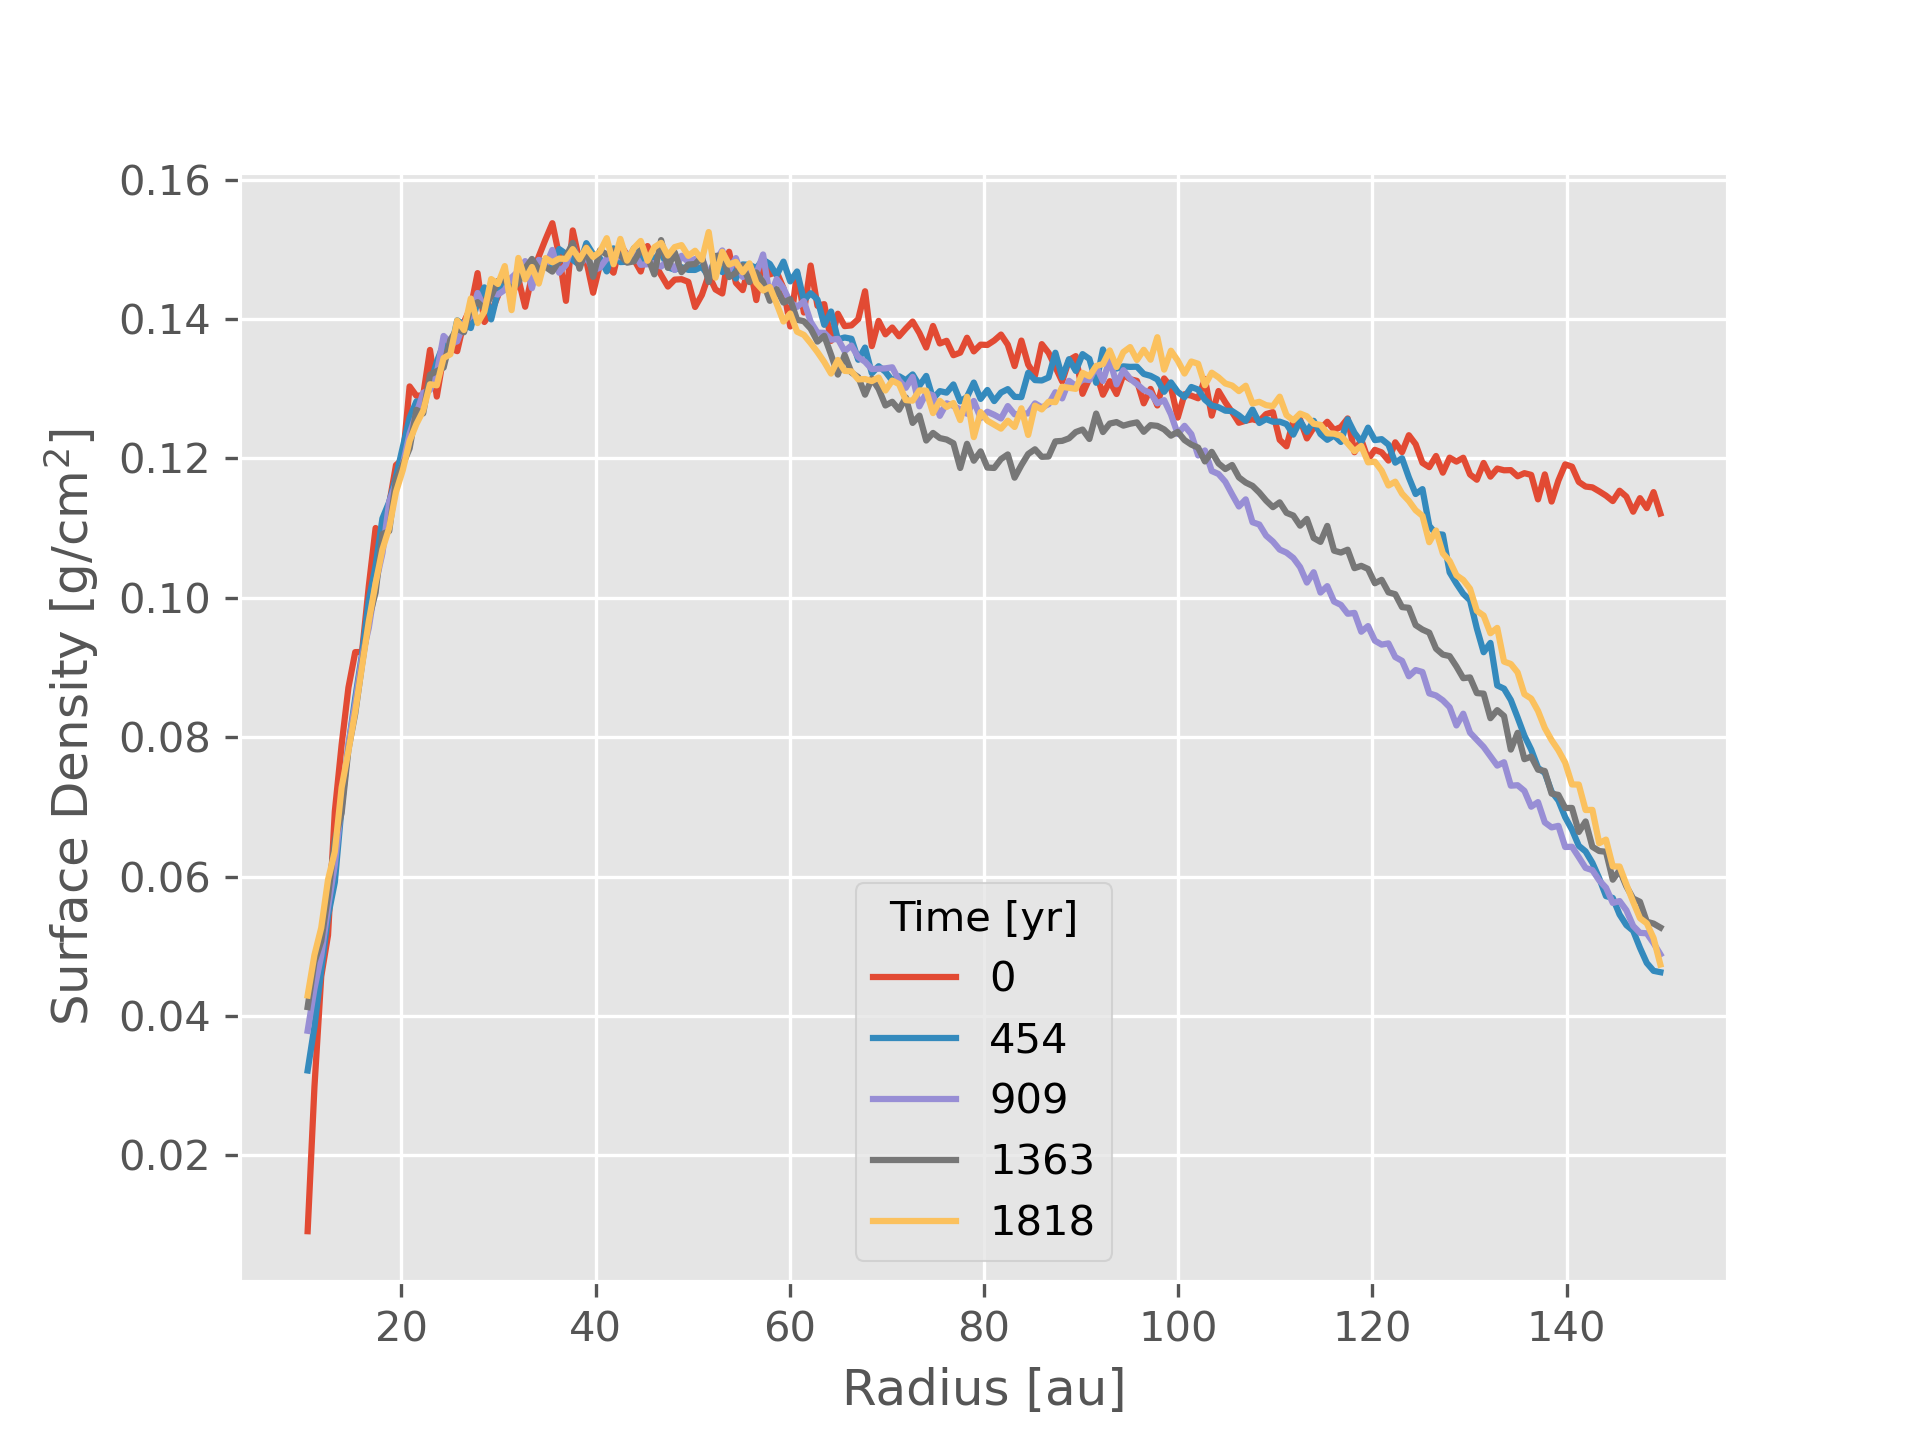
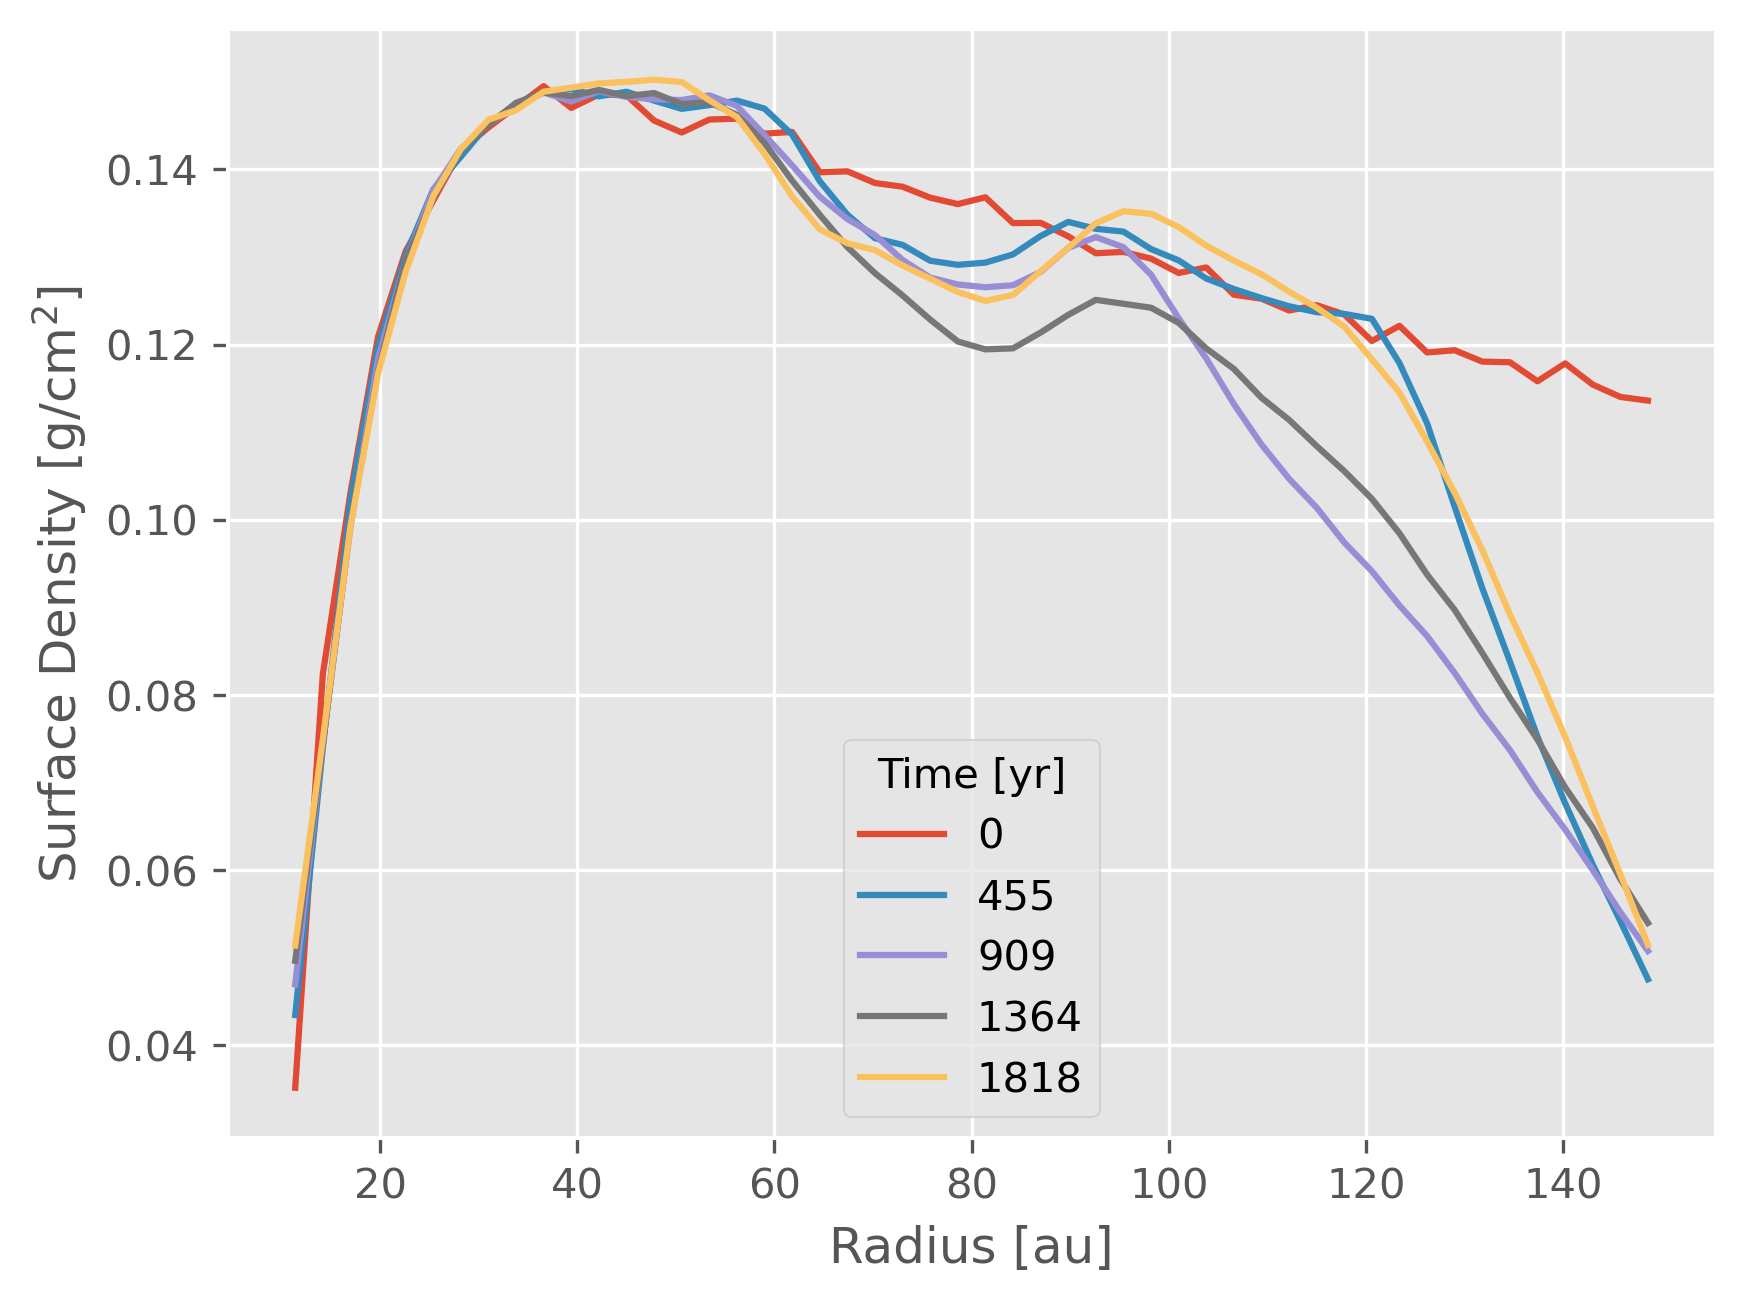
Update documentation examples

diff --git a/docs/source/examples/density-profiles.rst b/docs/source/examples/density-profiles.rst
@@ -17,28 +17,28 @@ Plot a density profile for multiple snapshots.
 
     # Generate density profiles for every 7th snap
     >>> stride = 7
+    >>> times = sim.properties['time'].to('year')[::stride]
     >>> profiles = list()
-    >>> times = sim.properties['time'].to('year').magnitude[::stride]
     >>> for snap in sim.snaps[::stride]:
-    ...     snap.physical_units()
     ...     profile = plonk.load_profile(
     ...         snap,
-    ...         radius_min=10 * plonk.units('au'),
-    ...         radius_max=150 * plonk.units('au'),
-    ...         n_bins=200
+    ...         radius_min='10 au',
+    ...         radius_max='150 au',
+    ...         n_bins=50,
     ...     )
-    ...     _ = profile['surface_density']
     ...     profiles.append(profile)
 
     # Plot profiles
     >>> fig, ax = plt.subplots()
     >>> for time, profile in zip(times, profiles):
-    ...     ax.plot(
-    ...         profile['radius'].to('au').m,
-    ...         profile['surface_density'].to('g/cm^2').m,
-    ...         label=f'{int(time)}'
-    ...     )
-    >>> ax.set_xlabel('Radius [au]')
+    ...     label = f'{time.m:.0f}'
+    ...     profile.plot(
+    ...         'radius',
+    ...         'surface_density',
+    ...         x_unit='au',
+    ...         label=label,
+    ...         ax=ax
+    ... )
     >>> ax.set_ylabel('Surface Density [g/cm${}^2$]')
     >>> ax.legend(title='Time [yr]', loc='best')
 

diff --git a/docs/source/examples/cross-section.rst b/docs/source/examples/cross-section.rst
@@ -9,17 +9,16 @@ Plot cross section at z=0.
     >>> import matplotlib.pyplot as plt
     >>> import plonk
 
-    # Load the snapshot
     >>> snap = plonk.load_snap('disc_00030.h5')
 
-    # Plot cross section
-    >>> plonk.visualize.plot(
+    >>> ax = plonk.visualize.plot(
     ...     snap=snap,
     ...     quantity='density',
+    ...     x='x',
+    ...     y='z',
     ...     interp='cross_section',
-    ...     z_slice=0.0,
-    ...     extent=(-150, 150, -150, 150),
     ...     cmap='gist_heat',
+    ...     units={'extent': 'au'},
     ... )
     >>> plt.show()
 

diff --git a/docs/source/examples/side-by-side.rst b/docs/source/examples/side-by-side.rst
@@ -15,10 +15,10 @@ Plot dust and gas side-by-side.
     # Specify dust and gas subsnaps
     >>> gas = snap['gas']
     >>> dust = snap['dust'][0]
-    >>> extent = (-150, 150, -150, 150)
+    >>> extent = (-150, 150, -150, 150) * plonk.units('au')
 
     # Make plot
-    >>> fig, axs = plt.subplots(ncols=2, sharey=True, figsize=(12, 5))
+    >>> fig, axs = plt.subplots(ncols=2, sharey=True, figsize=(13, 5))
     >>> plonk.visualize.plot(
     ...     snap=gas,
     ...     quantity='density',
